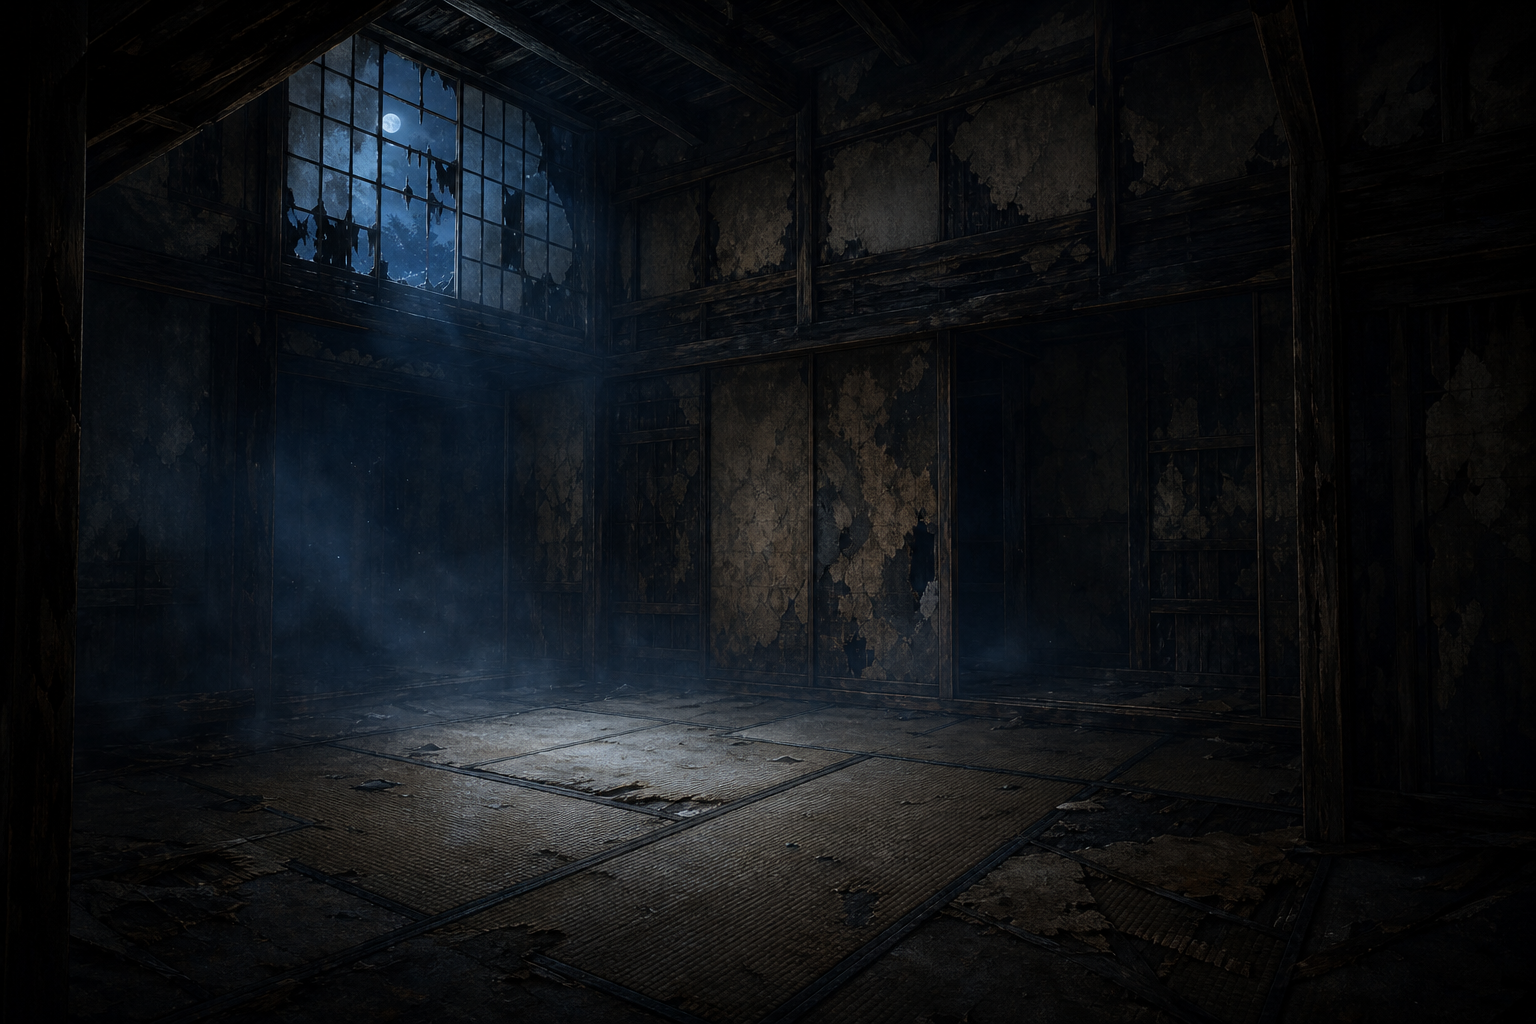
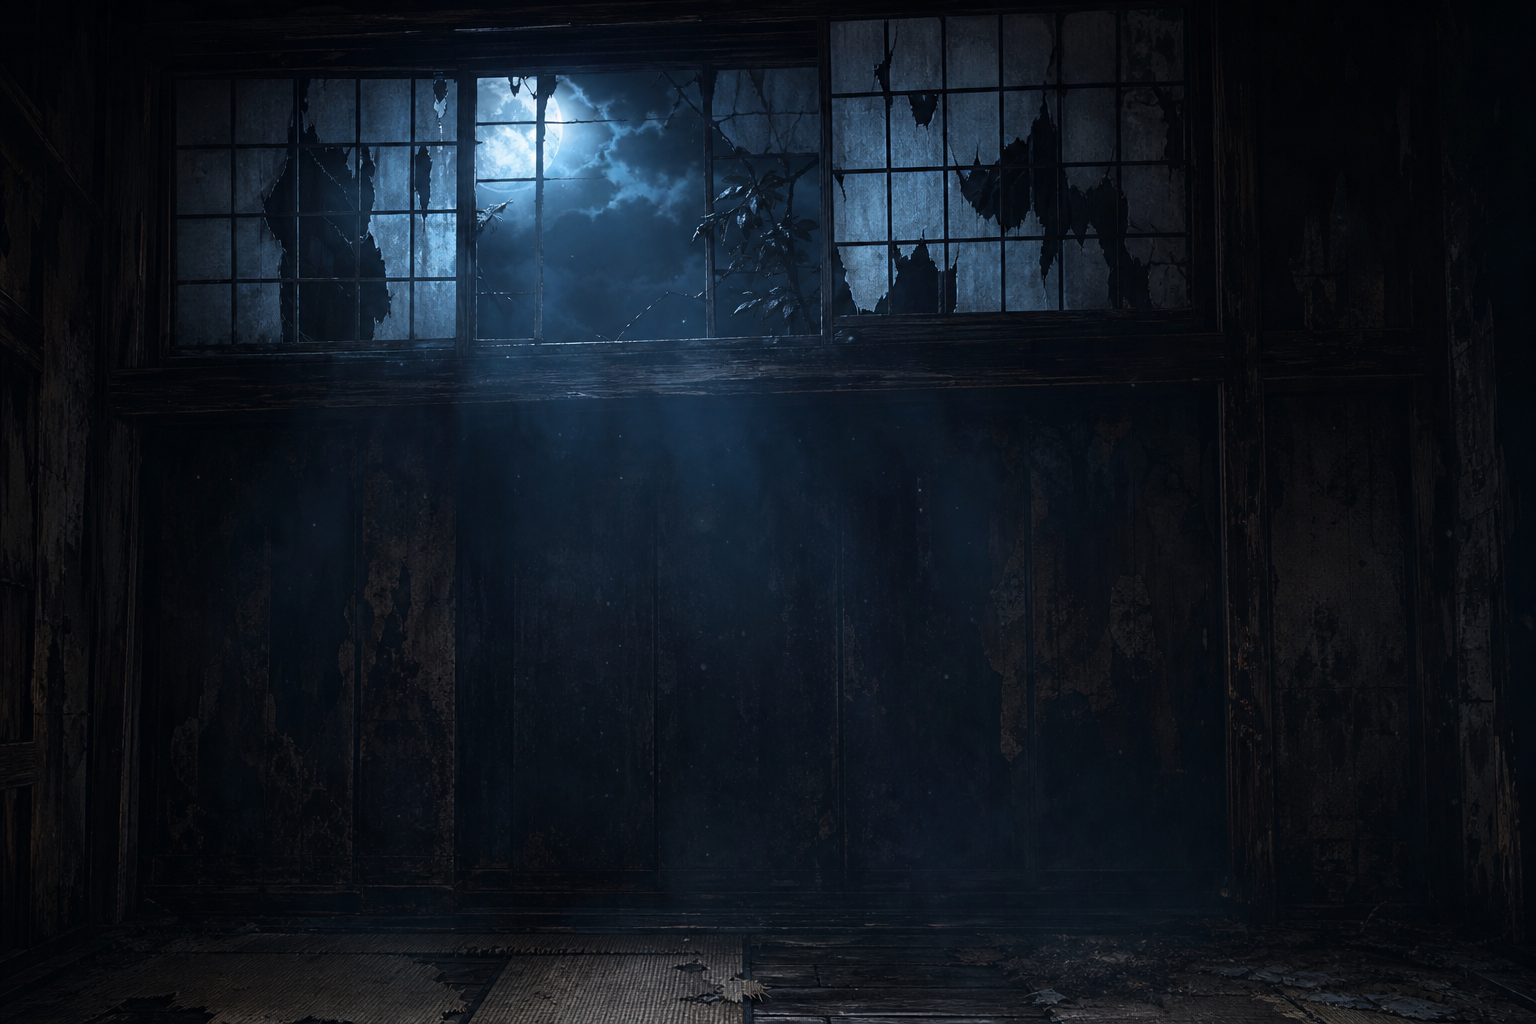
fix(escape-room): layout mobile, direcoes da janela e porta multi-item
LAYOUT MOBILE:
 - Nova imagem de fundo com janela central superior e paredes laterais,
   melhor adaptada a telas verticais.
 - Reposicionamento dos 8 hotspots em grid simetrico com 15-20% de margem
   das bordas, evitando corte no celular.
     Topo    : janela (centro), lanterna (esq), ema (dir)
     Meio-alt: mesa (esq), estante (dir)
     Meio    : lareira (centro)
     Baixo   : bau (esq), porta (dir)

FIX #1 — JANELA NAO MOSTRAVA AS DIRECOES:
 - Quando um hotspot tem useItemSuccess (texto ao destravar) mas nao tem
   reveals, o motor estava pulando direto ao puzzle, fazendo o jogador
   perder a pista das direcoes (templo = ひがし, familia = きた).
 - Agora o modal de reveals aparece sempre que ha useItemSuccess ou reveals,
   e so o botao "Investigar →" abre o puzzle.

FIX #2 — PORTA (isExit + useItem array) NAO DESBLOQUEAVA:
 - A porta tem estado 'exit' e nao 'locked'; o halo dourado de item
   compativel estava condicionado a state === 'locked', logo nunca aparecia
   na porta. Jogador nao recebia feedback que a chave/mapa serviam ali.
 - Agora o halo aparece em qualquer hotspot ainda nao destravado cujo item
   selecionado faz match.
 - Clique na porta sem item selecionado agora abre modal teaser (antes so
   mostrava toast discreto), listando quais itens ela requer e quais ja
   estao no inventario (check ✓ ou circulo ○).

diff --git a/src/screens/EscapeRoomScreen.js b/src/screens/EscapeRoomScreen.js
@@ -173,9 +173,15 @@ export default function EscapeRoomScreen({ navigation, route }) {
           setShowReveal(true);
           return;
         }
-        // Senão abre reveals/puzzle
+        // Senão: abre reveals/success/puzzle.
+        // Regra: se tem texto (reveals OU useItemSuccess), mostra o modal com
+        // esse texto primeiro; só depois o jogador toca em "Investigar" para ir
+        // ao puzzle. Assim o texto de destrancar (que pode conter a pista do
+        // puzzle, como as direções da janela) nunca é pulado.
         setActiveHotspot({ ...h, _justUnlocked: true });
-        if (!h.reveals && h.puzzle) setShowPuzzle(true);
+        if (!h.reveals && !h.useItemSuccess && h.puzzle) {
+          setShowPuzzle(true);
+        }
         return;
       }
 
@@ -186,24 +192,16 @@ export default function EscapeRoomScreen({ navigation, route }) {
     }
 
     // Cenário 2: clique sem item selecionado
-    if (state === 'locked') {
-      // Mostra mensagem inicial
+    // Hotspot que ainda precisa ser destravado (inclui porta final):
+    // mostra o modal teaser com mensagem explicativa.
+    if (h.useItem && !unlocked.includes(h.id)) {
       setActiveHotspot({ ...h, _lockedTeaser: true });
-      return;
-    }
-
-    // Hotspot idle ou exit (sem selectedId): abrir
-    if (h.isExit) {
-      // Porta só abre com os itens certos
-      showToast(h.initialMessage || 'A porta está trancada.', 'info');
       return;
     }
 
     setActiveHotspot(h);
     if (!h.reveals && h.puzzle) {
       setShowPuzzle(true);
-    } else if (h.ambientOnly && solved.includes(h.id)) {
-      // Clicar em ambient resolvido só reabre o reveals
     }
   };
 
@@ -442,7 +440,12 @@ export default function EscapeRoomScreen({ navigation, route }) {
         {/* Hotspots */}
         {room.hotspots.map(h => {
           const state = hotspotState(h);
-          const compatible = selectedId && itemMatches(h, selectedId) && state === 'locked';
+          // Halo dourado aparece quando o item selecionado combina com este
+          // hotspot E ele ainda precisa ser destravado (locked ou exit-sem-aberto).
+          const notYetUnlocked = !unlocked.includes(h.id) && !solved.includes(h.id);
+          const compatible = !!selectedId
+            && itemMatches(h, selectedId)
+            && notYetUnlocked;
           return (
             <Hotspot
               key={h.id}
@@ -482,11 +485,41 @@ export default function EscapeRoomScreen({ navigation, route }) {
             <Text style={styles.cardBody}>
               {activeHotspot?.initialMessage || 'Algo aqui está trancado. Talvez um item abra.'}
             </Text>
+
+            {/* Lista de itens requeridos (útil em portas multi-item) */}
+            {activeHotspot?.useItem ? (() => {
+              const need = Array.isArray(activeHotspot.useItem) ? activeHotspot.useItem : [activeHotspot.useItem];
+              if (need.length <= 1) return null;
+              return (
+                <View style={[styles.requireList, { borderColor: accent + '33' }]}>
+                  <Text style={[styles.requireTitle, { color: accent }]}>
+                    REQUER
+                  </Text>
+                  {need.map(id => {
+                    const owned = hasItem(id);
+                    const item = inventory.find(i => i.id === id);
+                    return (
+                      <View key={id} style={styles.requireRow}>
+                        <Text style={[styles.requireIcon, !owned && { color: '#777' }]}>
+                          {owned ? '✓' : '○'}
+                        </Text>
+                        <Text style={[styles.requireText, !owned && styles.requireTextMissing]}>
+                          {item ? `${item.emoji} ${item.label}` : '(item a descobrir)'}
+                        </Text>
+                      </View>
+                    );
+                  })}
+                </View>
+              );
+            })() : null}
+
             <TouchableOpacity
               style={[styles.cardBtn, { backgroundColor: accent + '22', borderColor: accent, alignSelf: 'center' }]}
               onPress={() => setActiveHotspot(null)}
             >
-              <Text style={styles.cardBtnText}>Vou procurar</Text>
+              <Text style={styles.cardBtnText}>
+                {activeHotspot?.isExit ? 'Voltar a explorar' : 'Vou procurar'}
+              </Text>
             </TouchableOpacity>
           </View>
         </View>
@@ -748,4 +781,25 @@ const styles = StyleSheet.create({
   unlockBannerLabel: { fontSize: 11, fontWeight: 'bold', letterSpacing: 1, marginBottom: 6 },
 
   hintCount: { color: '#c8a96e', fontSize: 11, textAlign: 'center', marginBottom: 10, fontStyle: 'italic' },
+
+  // Lista de requisitos (ex.: porta pede 2 itens)
+  requireList: {
+    padding: 12,
+    borderRadius: 10,
+    borderWidth: 1,
+    backgroundColor: 'rgba(0,0,0,0.4)',
+    marginBottom: 14,
+  },
+  requireTitle: {
+    fontSize: 10, fontWeight: 'bold', letterSpacing: 1.5, marginBottom: 6,
+  },
+  requireRow: {
+    flexDirection: 'row',
+    alignItems: 'center',
+    gap: 8,
+    paddingVertical: 2,
+  },
+  requireIcon: { color: '#4caf50', fontSize: 14, fontWeight: 'bold', width: 14 },
+  requireText: { color: '#fff', fontSize: 13 },
+  requireTextMissing: { color: '#888', textDecorationLine: 'line-through' },
 });

diff --git a/src/data/escapeRooms.js b/src/data/escapeRooms.js
@@ -64,7 +64,7 @@ export const ROOMS = [
         emoji: '📚',
         label: '{棚|たな}',
         labelPt: 'Estante',
-        x: 0.14, y: 0.55,
+        x: 0.80, y: 0.40,
         reveals:
           'Uma estante tombada com quatro livros cobertos de cinza. Eimei sussurra em sua mente: "procure o que mostra caminhos...".',
         puzzle: {
@@ -93,7 +93,7 @@ export const ROOMS = [
         emoji: '🕯',
         label: '{囲炉裏|いろり}',
         labelPt: 'Lareira',
-        x: 0.40, y: 0.55,
+        x: 0.50, y: 0.55,
         useItem: 'item-fosforo',
         initialMessage: 'A lareira está apagada e fria. Talvez um clique de chama a reacenda...',
         wrongItemMessage: 'Isso não serve para acender uma fogueira.',
@@ -120,7 +120,7 @@ export const ROOMS = [
         emoji: '📦',
         label: '{箱|はこ}',
         labelPt: 'Baú',
-        x: 0.80, y: 0.55,
+        x: 0.20, y: 0.70,
         useItem: 'item-chave-bronze',
         initialMessage: 'Um baú com cadeado de bronze. Parece aguardar uma chave.',
         wrongItemMessage: 'Esta chave não parece caber aqui.',
@@ -149,7 +149,7 @@ export const ROOMS = [
         emoji: '🪑',
         label: '{机|つくえ}',
         labelPt: 'Mesa',
-        x: 0.70, y: 0.32,
+        x: 0.20, y: 0.40,
         useItem: 'item-bilhete',
         initialMessage: 'Uma mesa empoeirada. Vazia. Talvez algo ser lido aqui melhor.',
         wrongItemMessage: 'Isso não pertence a esta mesa.',
@@ -188,7 +188,7 @@ export const ROOMS = [
         emoji: '🪟',
         label: '{窓|まど}',
         labelPt: 'Janela',
-        x: 0.22, y: 0.18,
+        x: 0.50, y: 0.14,
         useItem: 'item-bussola',
         initialMessage: 'A janela está rachada. Lá fora, estrelas piscam sobre montanhas longínquas.',
         wrongItemMessage: 'Isso não ajuda a enxergar o caminho.',
@@ -217,7 +217,7 @@ export const ROOMS = [
         emoji: '🚪',
         label: '{戸|と}',
         labelPt: 'Porta',
-        x: 0.50, y: 0.85,
+        x: 0.80, y: 0.70,
         isExit: true,
         useItem: ['item-chave-ouro', 'item-mapa'],
         initialMessage:
@@ -235,7 +235,7 @@ export const ROOMS = [
         emoji: '🎋',
         label: '{絵馬|えま}',
         labelPt: 'Ema',
-        x: 0.90, y: 0.22,
+        x: 0.80, y: 0.20,
         ambientOnly: true,
         reveals:
           'Uma tabuleta de madeira pendurada com um desejo gravado:\n\n「{家族|かぞく}の{幸|しあわ}せ」\n\n(a felicidade da família)\n\nVocê a reconhece. Você mesmo a pendurou aqui, há muito tempo.',
@@ -245,7 +245,7 @@ export const ROOMS = [
         emoji: '🪔',
         label: '{灯|あかり}',
         labelPt: 'Lanterna',
-        x: 0.08, y: 0.22,
+        x: 0.20, y: 0.20,
         ambientOnly: true,
         reveals:
           'Uma lanterna de papel há muito apagada. O papel tem escrito:\n\n{夜|よる} (noite).\n\nNão há óleo. Não há utilidade agora.',